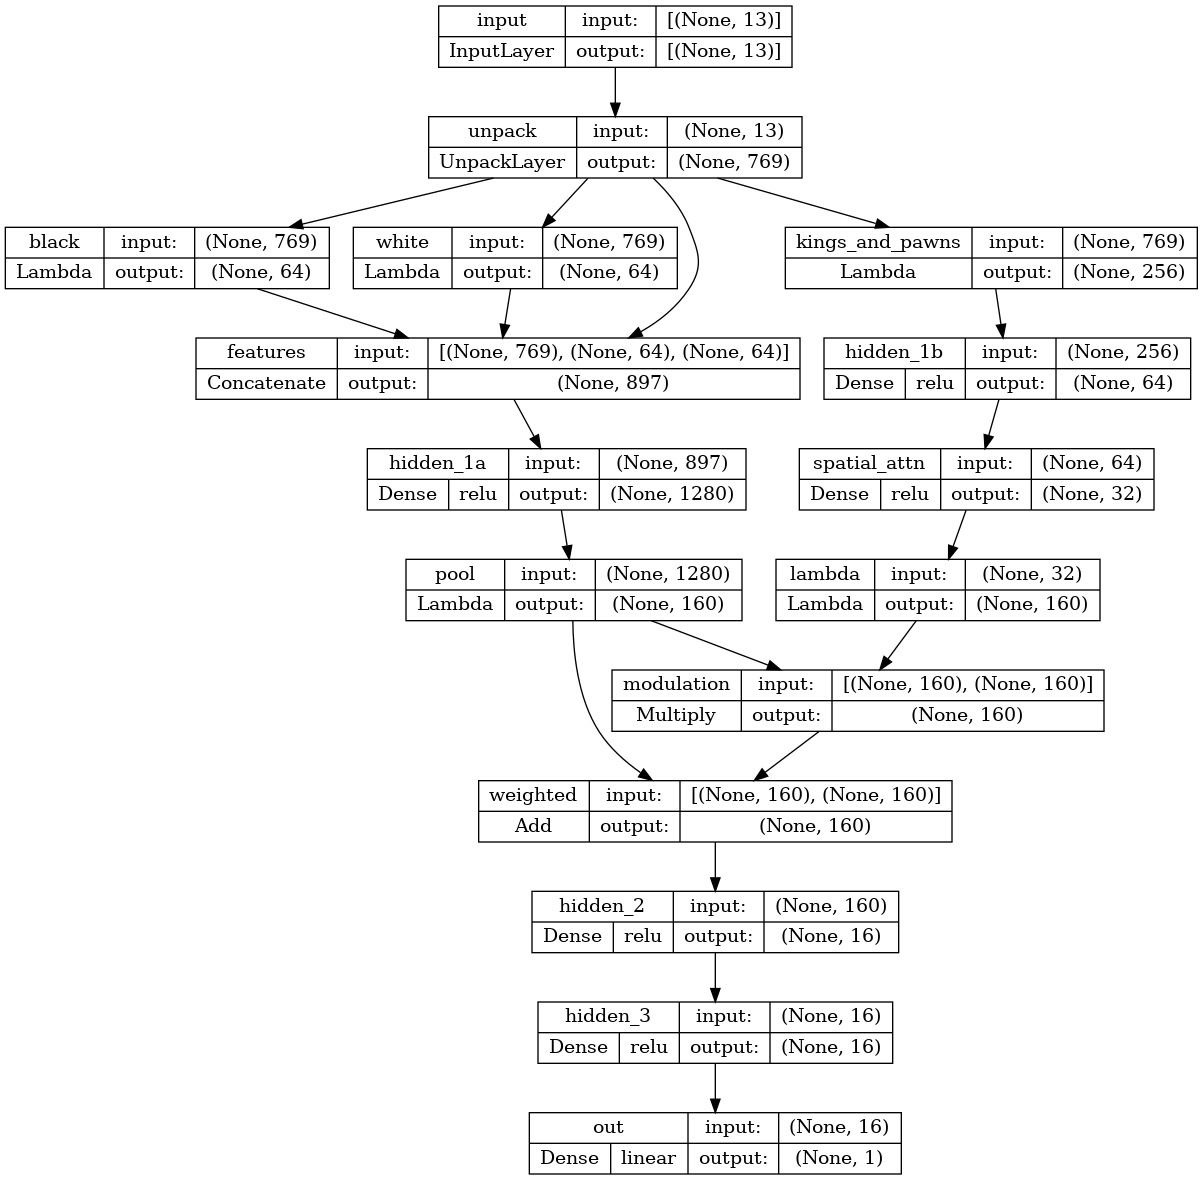
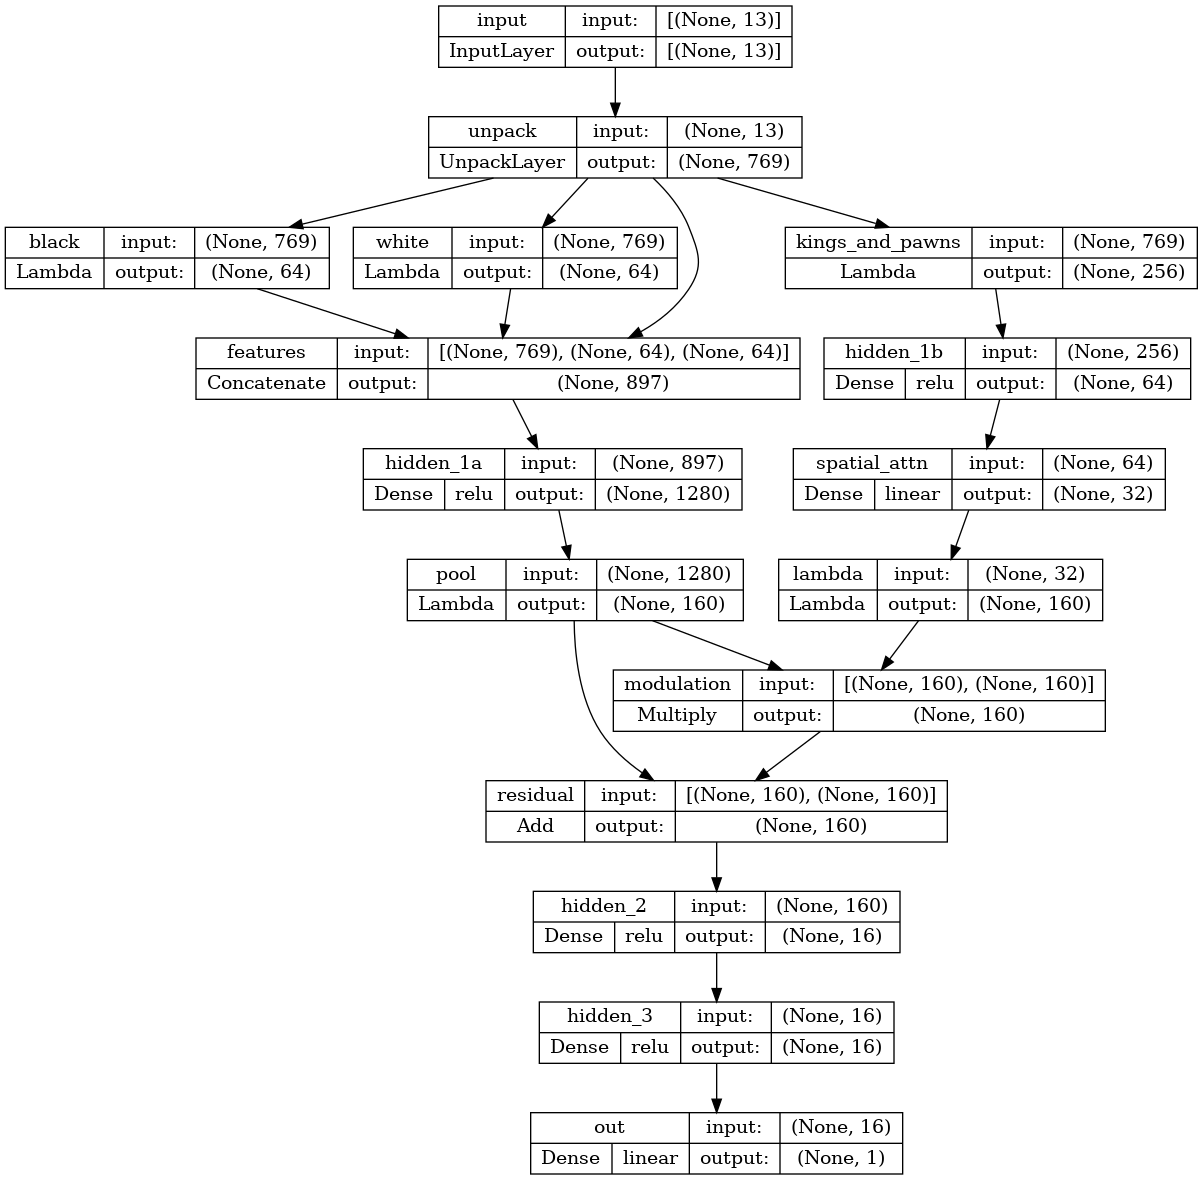
Fix quantization constraints, change trainer defaults

diff --git a/tools/nnue/train.py b/tools/nnue/train.py
@@ -51,20 +51,21 @@ def configure_logging(args):
 
 
 def make_model(args, strategy):
-    class CustomConstraint(tf.keras.constraints.Constraint):
+    class QConstraint(tf.keras.constraints.Constraint):
         def __init__(self, qmin, qmax, quantize_round=args.quantize_round):
             self.qmin = qmin
             self.qmax = qmax
             self.quantize_round = quantize_round
 
         def __call__(self, w):
+            w = tf.clip_by_value(w, self.qmin, self.qmax)
+            mask = tf.abs(w) < 1/Q_SCALE
+            w = tf.where(mask, tf.sign(w) / Q_SCALE, w)
+
             if self.quantize_round:
                 w = tf.round(w * Q_SCALE) / Q_SCALE
 
-            # Create dead zone: push values in (-1/Q_SCALE, 1/ Q_SCALE) to 0
-            # w = tf.where(tf.abs(w) < 1.0 / Q_SCALE, 0.0, w)
-
-            return tf.clip_by_value(w, self.qmin, self.qmax)
+            return w
 
     @tf.function
     def soft_clip(x, clip_value, alpha=0.1):
@@ -164,7 +165,7 @@ def make_model(args, strategy):
 
         concat = Concatenate(name='features')([unpack_layer, black_occupied, white_occupied])
 
-        constr_a = CustomConstraint(Q_MIN_A, Q_MAX_A)
+        constr_a = QConstraint(Q_MIN_A, Q_MAX_A)
         hidden_1a = Dense(
             ACCUMULATOR_SIZE,
             activation=ACTIVATION,
@@ -174,7 +175,7 @@ def make_model(args, strategy):
             bias_constraint=constr_a,
         )(concat)
 
-        constr_b = CustomConstraint(Q_MIN_B, Q_MAX_B)
+        constr_b = QConstraint(Q_MIN_B, Q_MAX_B)
         # constr_b = constr_a  # use same weight ranges as accumulator
 
         # Define hidden layer 1b (use kings and pawns to compute dynamic weights)
@@ -205,9 +206,9 @@ def make_model(args, strategy):
         modulation = Multiply(name='modulation')([pooled, attn_reshape_layer(spatial_attn)])
 
         # Add residual connection: pooled + pooled * attention_weights
-        weighted = Add(name='weighted')([pooled, modulation])
+        residual = Add(name='residual')([pooled, modulation])
 
-        hidden_2 = Dense(16, activation=ACTIVATION, kernel_initializer=K_INIT, name='hidden_2')(weighted)
+        hidden_2 = Dense(16, activation=ACTIVATION, kernel_initializer=K_INIT, name='hidden_2')(residual)
         hidden_3 = Dense(16, activation=ACTIVATION, kernel_initializer=K_INIT, name='hidden_3')(hidden_2)
 
         # Define the position evaluation output
@@ -763,14 +764,14 @@ if __name__ == '__main__':
         parser = argparse.ArgumentParser(formatter_class=CustomFormatter)
         parser.add_argument('input', nargs=1, help='memmap-ed numpy, or h5, input data file path')
         parser.add_argument('-a', '--adaptive', action='store_true', help='use adaptive loss (otherwise use default: weighted loss)')
-        parser.add_argument('-b', '--batch-size', type=int, default=8192, help='batch size')
-        parser.add_argument('-c', '--clip', type=float, default=3.0, help='position eval gradient soft clip')
+        parser.add_argument('-b', '--batch-size', type=int, default=16384, help='batch size')
+        parser.add_argument('-c', '--clip', type=float, default=10.0, help='position eval gradient soft clip')
         parser.add_argument('-d', '--decay', type=float, help='weight decay')
         parser.add_argument('-D', '--distribute', action='store_true', help='distribute dataset across GPUs')
         parser.add_argument('-e', '--epochs', type=int, default=10000, help='number of epochs')
         parser.add_argument('-E', '--ema', action='store_true', help='use Exponential Moving Average')
         parser.add_argument('-f', '--save-freq', type=int, help='frequency for saving model')
-        parser.add_argument('-F', '--filter', type=int, default=15000, help='filter out positions with absolute score higher than this')
+        parser.add_argument('-F', '--filter', type=int, default=2400, help='filter out positions with absolute score higher than this')
         parser.add_argument('-L', '--logfile', default='train.log', help='log filename')
         parser.add_argument('-m', '--model', help='model checkpoint path')
         parser.add_argument('-r', '--learn-rate', type=float, default=1e-4, help='learning rate')
@@ -780,8 +781,8 @@ if __name__ == '__main__':
         parser.add_argument('--no-draw', action='store_true', help='exclude draws from training')
         parser.add_argument('--hex', action='store_true', help='export weights in hex format')
 
-        parser.add_argument('--huber-delta', type=float, default=2.0)
-        parser.add_argument('--loss-weight', type=float, default=0.95, help='weight for outcome loss vs eval loss (0=eval only, 1=outcome only)')
+        parser.add_argument('--huber-delta', type=float, default=5.0)
+        parser.add_argument('--loss-weight', type=float, default=0.9, help='weight for outcome loss vs eval loss (0=eval only, 1=outcome only)')
         parser.add_argument('--outcome-scale', type=float, default=400.0, help='scale factor for converting centipawns to win probability (sigmoid scaling)')
 
         # Move prediction related arguments
@@ -789,7 +790,7 @@ if __name__ == '__main__':
         parser.add_argument('--move-weight', type=float, default=0.3, help='blending weight for move prediction loss')
 
         # Arguments for move prediction stability
-        parser.add_argument('--move-temperature', type=float, default=2.0, help='temperature scaling for move logits')
+        parser.add_argument('--move-temperature', type=float, default=1.0, help='temperature scaling for move logits')
         parser.add_argument('--move-logit-clip', type=float, default=10.0, help='clip move logits to prevent extreme values')
         parser.add_argument('--move-loss-scale', type=float, default=0.1, help='scale factor for move prediction loss')
         parser.add_argument('--clip-norm', type=float, default=1.0, help='gradient clipping norm')

diff --git a/nnue.h b/nnue.h
@@ -282,7 +282,7 @@ namespace nnue
     {
         static constexpr int ROWS = I;
         static constexpr int COLS = O;
-        /* Round up to INPUT_STRIDE to deal with the 897 inputs. */
+        /* Round up to INPUT_STRIDE to deal with odd inputs. */
         static constexpr int INPUTS = round_up<INPUT_STRIDE>(I);
         static constexpr int OUTPUTS = O;
 
